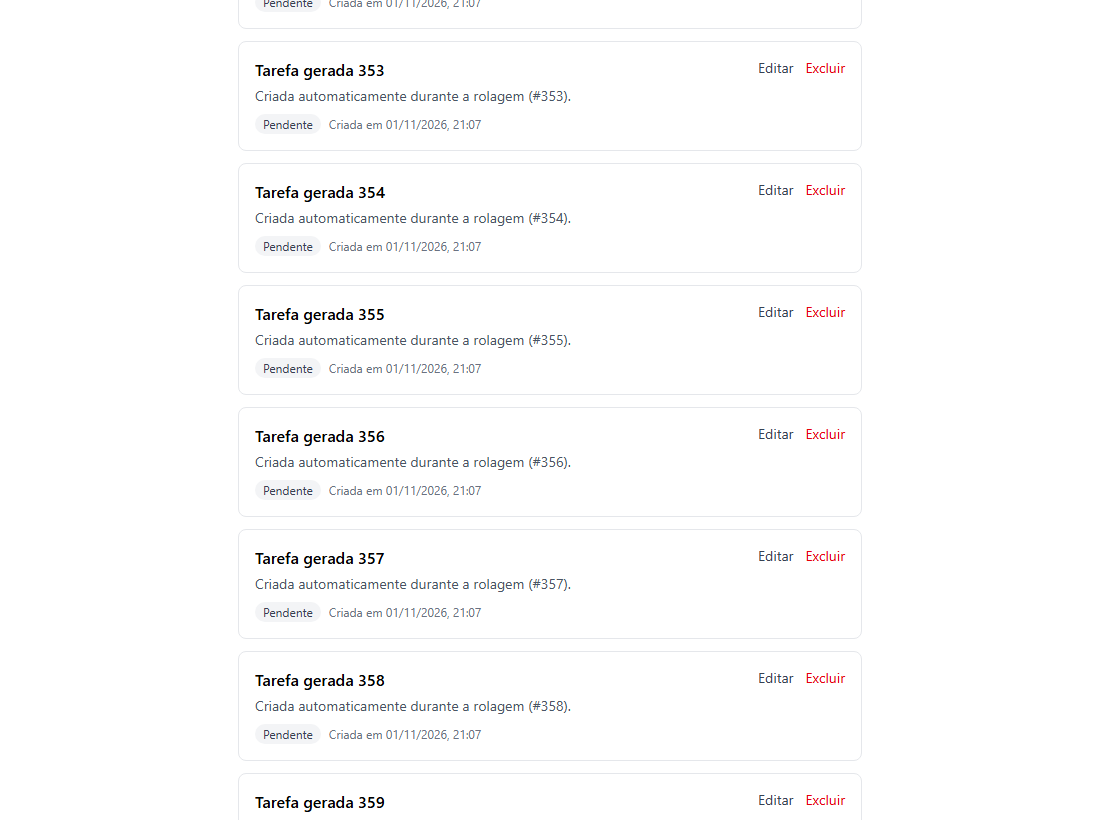
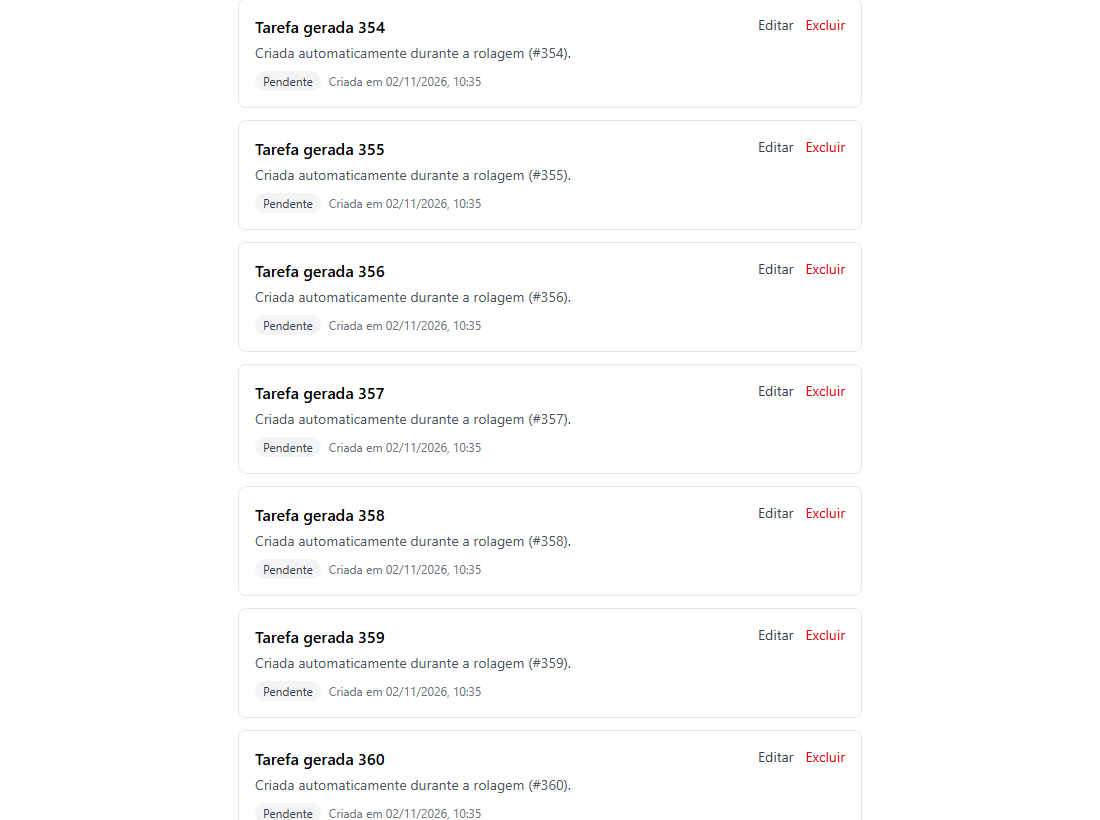
Update README: bonus infinite scroll, performance analysis, extra fields
- All screenshots in Portuguese; add task creation screenshot
- Explain the infinite scroll bonus and summarize the server and client
  performance tests (details in test/README.md)
- Document the extra status and dataAtualizacao fields

diff --git a/README.md b/README.md
@@ -41,18 +41,31 @@ Já configuradas no `docker-compose.yml`:
 
 | | |
 |---|---|
-| **Listagem com SSR**: a primeira página já vem no HTML; o resto carrega ao rolar (infinite scroll) | **Validação** no cliente e no servidor, com mensagens por campo |
+| **Listagem com SSR**: a primeira página já vem no HTML | **Validação** no cliente e no servidor, com mensagem por campo |
 | ![Lista](docs/screenshots/01-lista.png) | ![Validação](docs/screenshots/02-validacao.png) |
-| **Edição** com status (pendente, em andamento, concluída) | **Feedback** de cada ação (toasts) e estados de carregamento |
-| ![Edição](docs/screenshots/04-edicao.png) | ![Exclusão](docs/screenshots/05-excluida.png) |
-| **Português e inglês**: seletor PT \| EN no canto superior direito | **Tarefa inexistente**: página 404 amigável |
-| ![Inglês](docs/screenshots/07-ingles.png) | ![Não encontrada](docs/screenshots/08-nao-encontrada.png) |
+| **Criação** com confirmação; a tarefa nova entra no fim da lista | **Edição** de título, descrição e status |
+| ![Criação](docs/screenshots/03-criada.png) | ![Edição](docs/screenshots/04-edicao.png) |
+| **Exclusão** com confirmação e aviso de sucesso ou erro | **Tarefa inexistente**: página 404 |
+| ![Exclusão](docs/screenshots/05-excluida.png) | ![Não encontrada](docs/screenshots/08-nao-encontrada.png) |
 
-**Ordenação da lista:** tarefas editadas primeiro (a editada mais recentemente no topo), depois as nunca editadas, da mais antiga para a mais nova.
+A lista mostra primeiro as tarefas editadas (a mais recente no topo) e depois as nunca editadas, da mais antiga para a mais nova. A interface está em português e inglês (seletor PT | EN no canto superior direito).
 
-**Modo geração** (`/?mode=generate`, link "Gerar tarefas ao rolar"): ao rolar até o fim, novas tarefas são criadas no servidor em lotes de 20. Foi usado para testar a aplicação com milhares de tarefas.
+## Infinite scroll (bônus)
+
+A listagem carrega 10 tarefas por vez conforme a página é rolada, atendendo ao bônus de infinite scroll do enunciado. A paginação é por cursor, e a primeira página já vem renderizada pelo servidor.
+
+Para testar a rolagem com volume, existe um modo que cria tarefas no servidor enquanto a página é rolada: `/?mode=generate` (link "Gerar tarefas ao rolar").
 
 ![Modo geração](docs/screenshots/06-modo-geracao.png)
+
+### Análise de performance
+
+No modo geração, a rolagem ficava mais lenta à medida que a lista crescia. Para achar a causa, foram feitos dois testes, detalhados em [test/README.md](test/README.md):
+
+- **Servidor** (`npm run test:stress`): 100 mil tarefas criadas e lidas pela API. As respostas ficaram em poucos milissegundos do início ao fim; não houve gargalo na carga testada.
+- **Cliente** (`npm run test:perf`): um navegador automatizado rolando a página. O gargalo estava aqui: com todas as tarefas no DOM, a página passava a maior parte do tempo travada a partir de ~2 mil tarefas.
+
+A solução foi virtualizar a lista com `@tanstack/react-virtual`, que mantém no DOM só as tarefas visíveis. A lista passou a chegar a 10 mil tarefas em 90 s; a versão anterior parou em 7.545 depois de 5 minutos.
 
 ## Como funciona
 
@@ -94,17 +107,15 @@ Páginas (React)                             Server Components (SSR)
 | `id` | UUID | gerado no servidor |
 | `titulo` | string | obrigatório |
 | `descricao` | string? | opcional |
-| `status` | `pending` \| `in_progress` \| `completed` | |
+| `status` | `pending` \| `in_progress` \| `completed` | campo extra |
 | `dataCriacao` | Date | |
-| `dataAtualizacao` | Date? | vazia até a primeira edição |
+| `dataAtualizacao` | Date? | campo extra; vazia até a primeira edição |
+
+`status` e `dataAtualizacao` não estavam no enunciado. O status é parte básica da modelagem de uma tarefa. A data de atualização foi necessária para a ordenação: é ela que leva a tarefa editada para o topo da lista.
 
 ### Armazenamento
 
-As tarefas ficam **em memória** (um `Map` indexado pelo id), como pede o enunciado, atrás de um repositório (`src/server/task-repository.ts`). O resto da aplicação só conhece o repositório, então trocar por um banco de dados não afetaria rotas nem telas. A lista ordenada fica em cache e só é recalculada quando alguma tarefa é criada, editada ou excluída. Um teste de stress com 100 mil tarefas manteve as respostas em poucos milissegundos (ver [test/README.md](test/README.md)).
-
-### Lista virtualizada
-
-A lista renderiza apenas as tarefas visíveis na tela (`@tanstack/react-virtual`), então o custo de exibir 10 ou 10 mil tarefas é o mesmo. A decisão foi tomada com base em testes de performance: ver [test/README.md](test/README.md).
+As tarefas ficam **em memória** (um `Map` indexado pelo id), como pede o enunciado, atrás de um repositório (`src/server/task-repository.ts`). O resto da aplicação só conhece o repositório, então trocar por um banco de dados não afetaria rotas nem telas. A lista ordenada fica em cache e só é recalculada quando alguma tarefa é criada, editada ou excluída.
 
 ### Métricas no servidor
 
